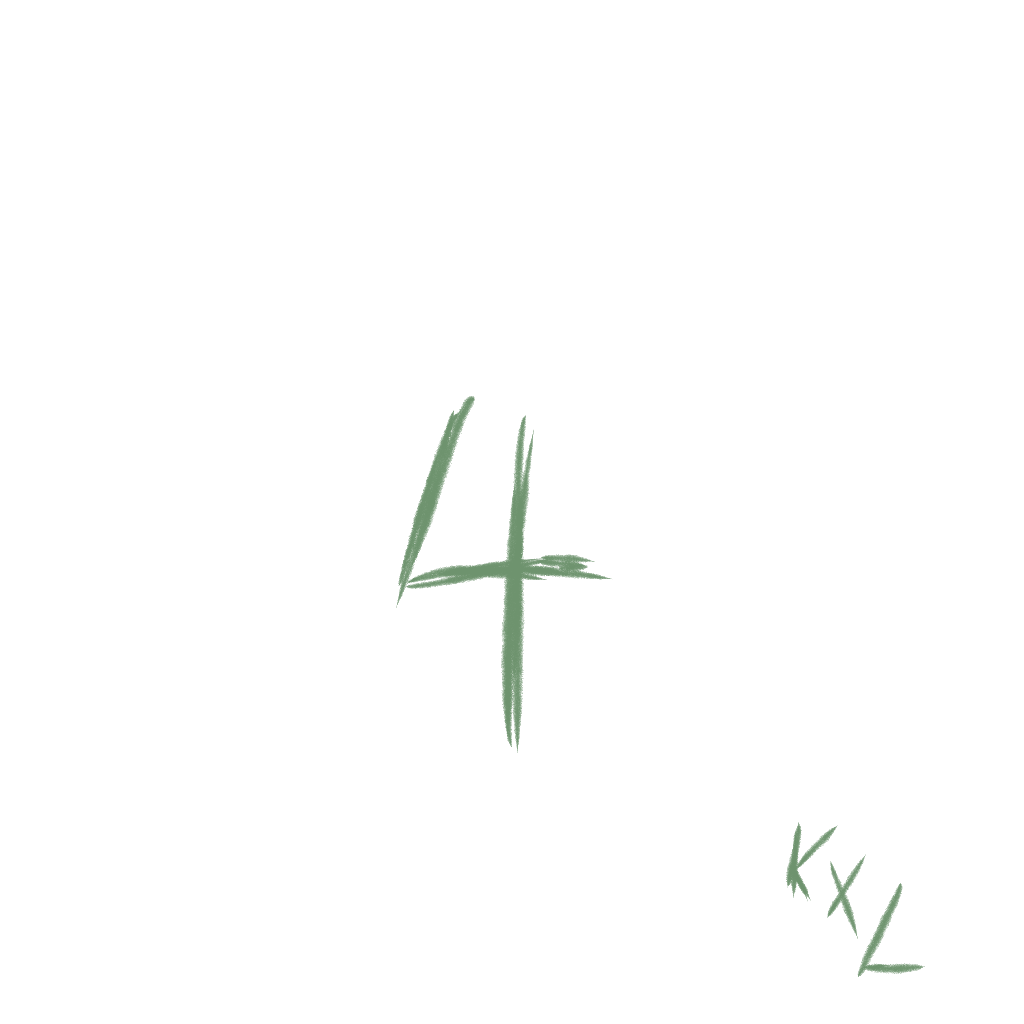
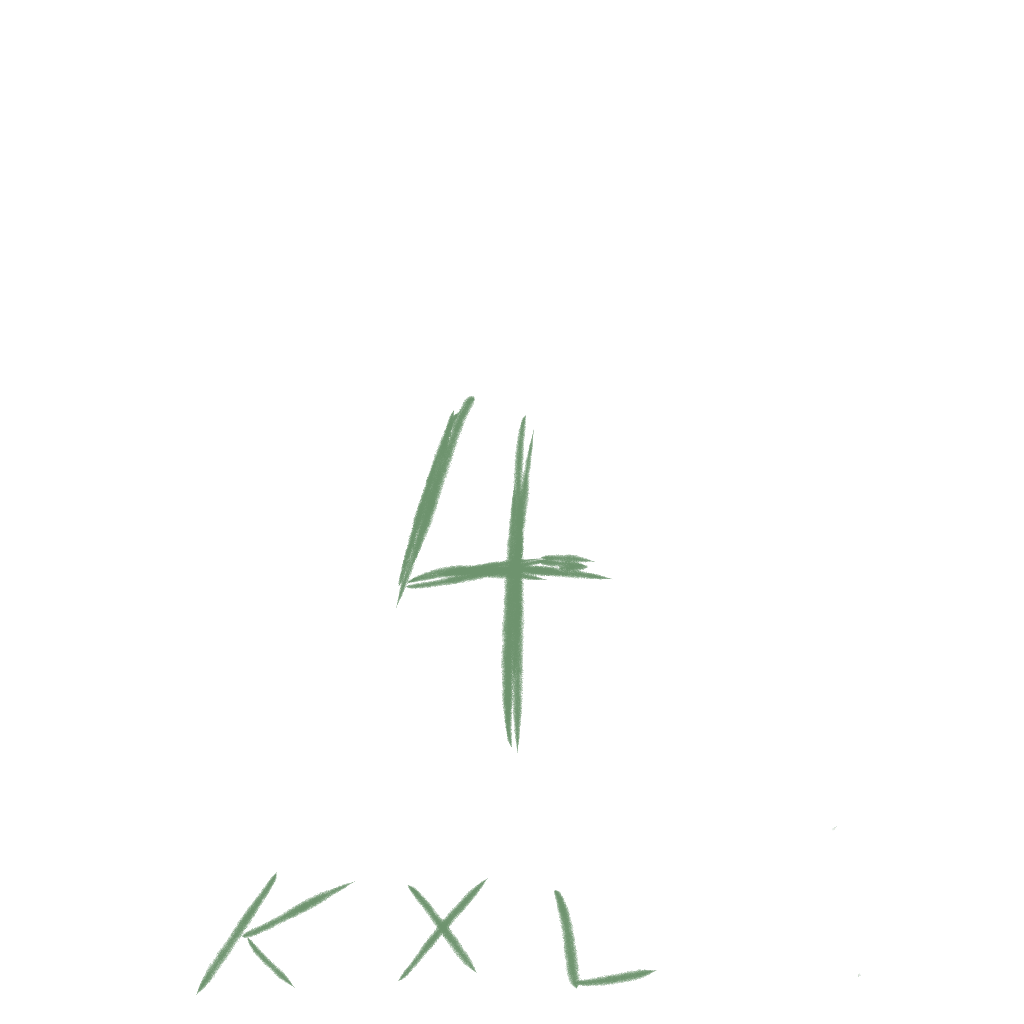
Screen messages (#149)
* updatedItems

* added screens

* Update index.js

* Update createObjects.js

* added new arrow

* done

diff --git a/src/components/game/index.js b/src/components/game/index.js
@@ -57,8 +57,9 @@ export default function Game(props) {
 
   // Defining all Variables of Objects/Inventory and UI for better work.
   // UserInterface
-  var leftArrow = props.app.stage.children[4];
+  let leftArrow = props.app.stage.children[4];
   let rightArrow = props.app.stage.children[5];
+  let downArrow = props.app.stage.children[11];
 
   let greenCard = "";
   let yellowCard = "";
@@ -134,6 +135,9 @@ export default function Game(props) {
   }
   function turnRight() {
     dispatch({ type: "SWITCH_RIGHT" });
+  }
+  function goBack() {
+    dispatch({type: "GO_BACK"});
   }
   function displayFirstRiddle() {
     dispatch({ type: "SELECT_PC" });
@@ -398,6 +402,7 @@ export default function Game(props) {
     let box = createBox(boxSheet, props.app);
     let left = ui[0];
     let right = ui[1];
+    let down = ui[2];
     let boxClosed = box[0];
     // let boxOpened = box[1];
     let innerCellScreen = box[2];
@@ -405,6 +410,7 @@ export default function Game(props) {
     // Preparing Eventhandler for Items, Objects and Interface
     left.on("pointerdown", turnLeft);
     right.on("pointerdown", turnRight);
+    down.on("pointerdown", goBack);
     pc.on("pointerdown", displayFirstRiddle);
     drawer.on("pointerdown", displayThirdRiddle);
     // objects.escapeDoor.on("pointerdown", displayFirstRiddle);
@@ -520,13 +526,14 @@ export default function Game(props) {
 
     left.visible = false;
     right.visible = false;
+    down.visible = false;
 
     //4 = left, 5 = right, 6 = objects.lightSwitch?
     //Preparing FlashLight and DarkRoom
     props.app.stage.addChild(focus1, pc);
     props.app.stage.children[7].visible = false;
     props.app.stage.addChild(objects.lightSwitchRiddle);
-    props.app.stage.addChild(ending); //10
+    props.app.stage.addChild(ending, down); //10
     props.app.stage.children[10].visible = false;
     // props.app.stage.children[6].visible = false;
     // props.app.stage.children[8].visible = false;
@@ -573,6 +580,9 @@ export default function Game(props) {
         //RoomBack
         roomBackField.visible = true;
         props.app.stage.children[8].visible = false;
+        leftArrow.visible = true;
+        rightArrow.visible = true;
+        downArrow.visible = false;
         break;
       case 2:
         //FrontDoor
@@ -584,6 +594,9 @@ export default function Game(props) {
         break;
       case 3:
         //InnerCell
+        leftArrow.visible = false;
+        rightArrow.visible = false;
+        downArrow.visible = true;
         innerCellField.visible = true;
         props.app.stage.children[8].visible = false;
         break;
@@ -653,6 +666,9 @@ export default function Game(props) {
       new PIXI.Texture(asheet, new PIXI.Rectangle(0, 0, 130, height)),
     ];
     arrowSheet["right"] = [
+      new PIXI.Texture(asheet, new PIXI.Rectangle(0, 0, 130, height)),
+    ];
+    arrowSheet["down"] = [
       new PIXI.Texture(asheet, new PIXI.Rectangle(0, 0, 130, height)),
     ];
   }

diff --git a/src/helper/createObjects.js b/src/helper/createObjects.js
@@ -3,6 +3,7 @@ import * as PIXI from "pixi.js";
 export function createUserInterface(arrowSheet, app) {
   const left = new PIXI.Sprite(arrowSheet.left[0]);
   const right = new PIXI.Sprite(arrowSheet.right[0]);
+  const down = new PIXI.Sprite(arrowSheet.down[0]);
 
   left.interactive = true;
   left.buttonMode = true;
@@ -13,12 +14,18 @@ export function createUserInterface(arrowSheet, app) {
   right.buttonMode = true;
   right.scale.set(-1);
 
+  down.interactive = true;
+  down. buttonMode = true;
+  down.rotation -= 1.61;
+
   right.x = 730;
   right.y = 785;
   left.x = 70;
   left.y = 660;
+  down.x = 340;
+  down.y = 800;
 
-  return [left, right];
+  return [left, right, down];
 }
 export function setItems(items, app) {
   //Visible Objects
@@ -239,7 +246,7 @@ export function setItems(items, app) {
     lightSwitchRiddle,
     escapeDoor,
     escapeDoorScreen,
-    safe,
+    safe, // 15
     skeletonPc,
     skeletonFinger,
     extraDrawer,

diff --git a/src/store/appreducer.js b/src/store/appreducer.js
@@ -61,16 +61,20 @@ function appReducer(state = initialState, action) {
             : state.partNumber + 1,
       };
     case "SWITCH_RIGHT":
-      console.log(state.numberOfParts);
       return {
         ...state,
         partNumber: state.partNumber - 1 === -1 ? 2 : state.partNumber - 1,
       };
-    case "GO_IN_CELLDOOR":
+    case "GO_BACK":
       return {
         ...state,
-        partNumber: 3,
-      };
+        partNumber: 1,
+      };     
+    case "GO_IN_CELLDOOR":
+        return {
+          ...state,
+          partNumber: 3,
+        };
     case "TAKE_IDCARD1":
       return {
         ...state,
